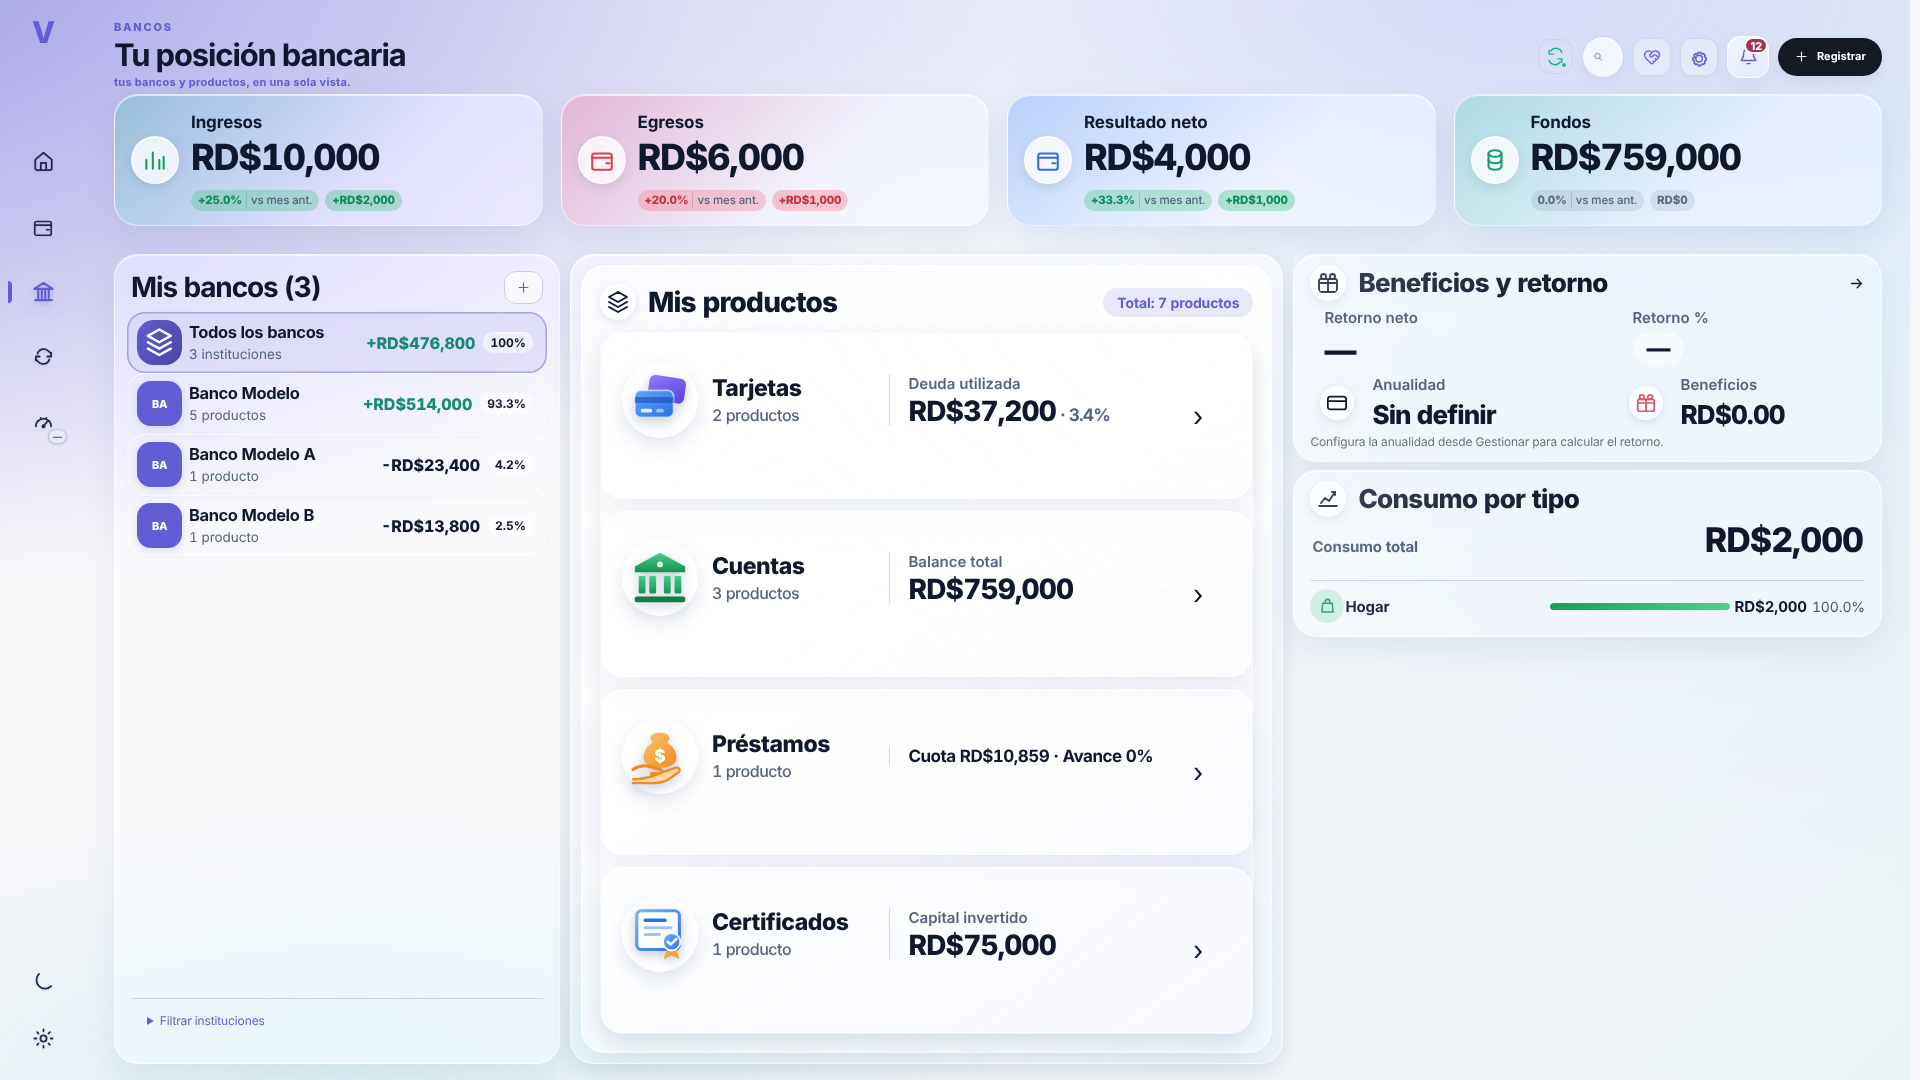
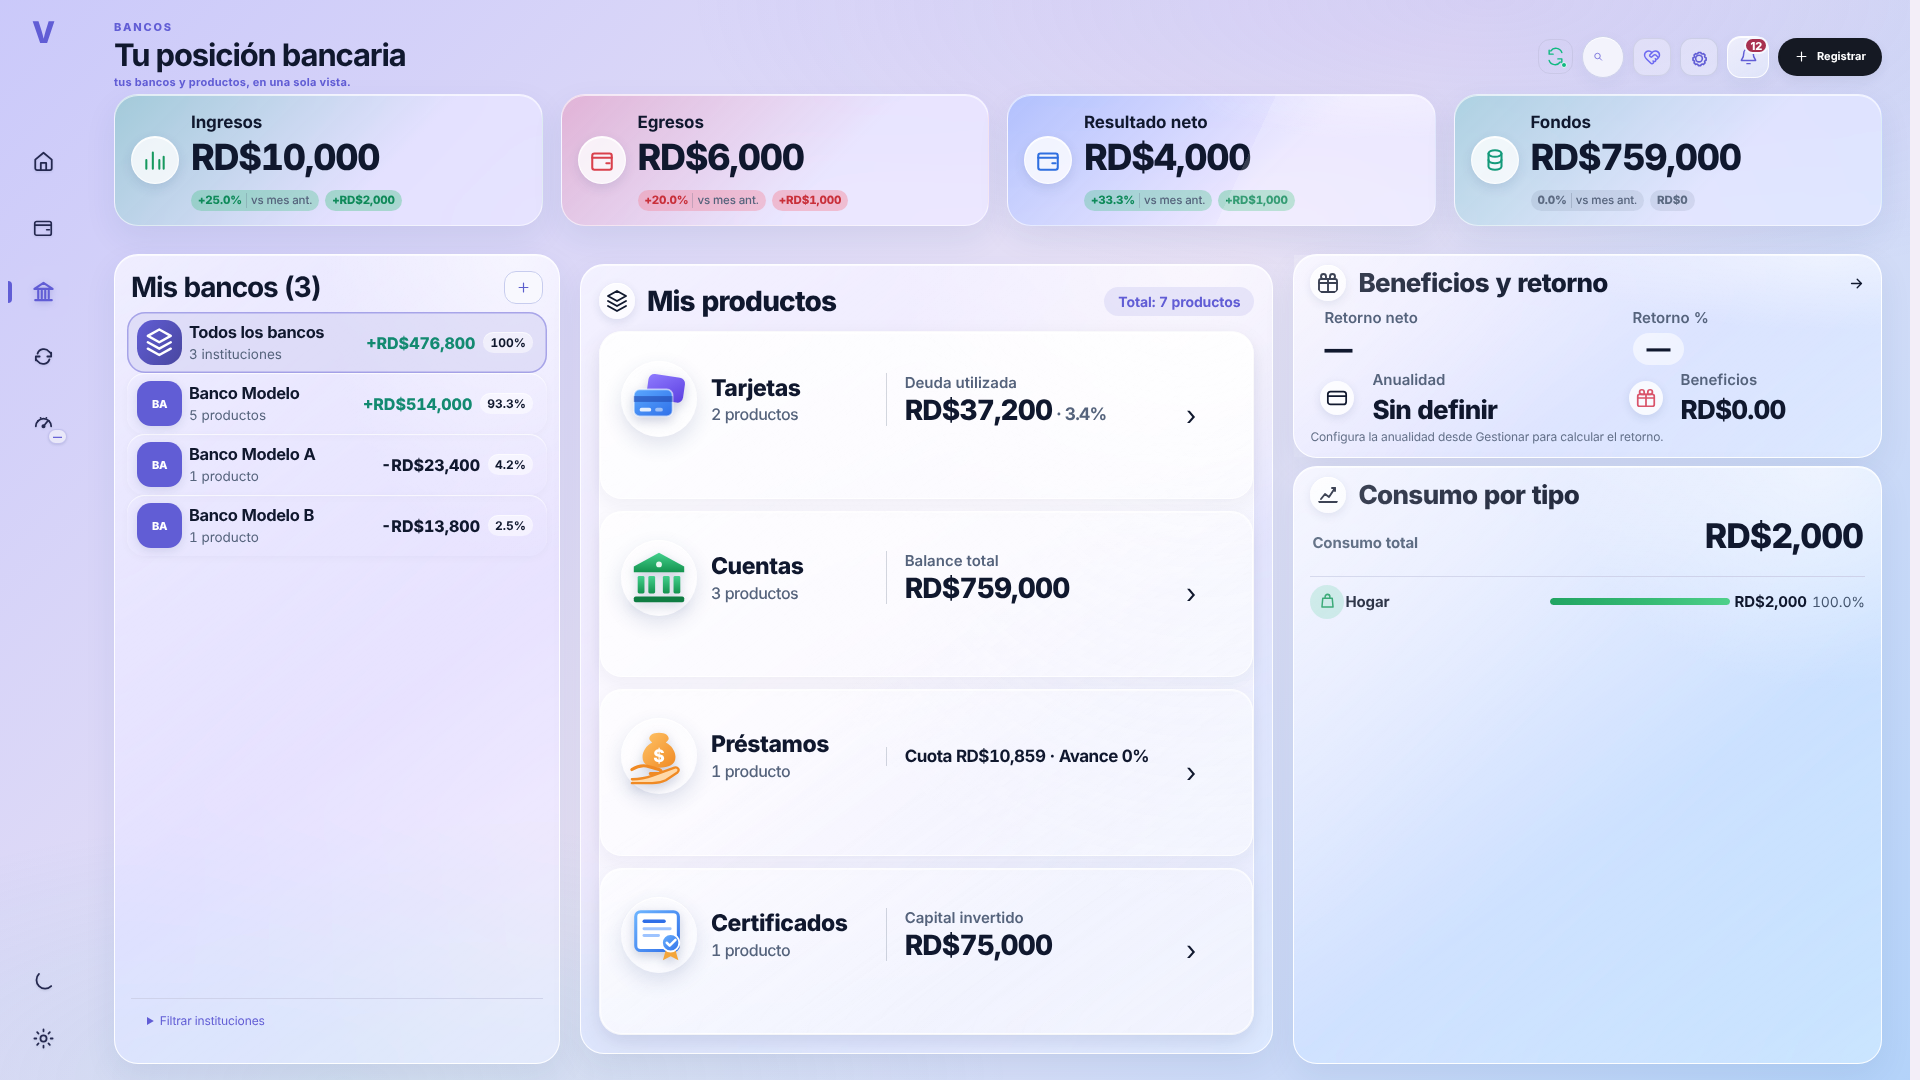
Bancos PC: columna derecha al alto de Mis productos, interior translúcido, totales dentro del contenedor; Patrimonio con cristal cromático del acento
Claude-Session: https://claude.ai/code/session_01AwzF8JXGCqasa7rHAy2PHn

diff --git a/src/bancos-pc-glass.css b/src/bancos-pc-glass.css
@@ -310,3 +310,35 @@
 @media(min-width:791px){
  html body #app#app#app main.vBanksPc-world #page#page .vBanksPc-insights .v371-return-heading{margin-bottom:6px!important}
 }
+/* Columna derecha = mismo alto que «Mis productos»: Consumo por tipo absorbe el espacio y reparte sus filas */
+@media(min-width:1100px){
+ html body #app#app#app main.vBanksPc-world #page#page .vBanksPc-insights{align-self:stretch!important}
+ html body #app#app#app main.vBanksPc-world #page#page .vBanksPc-insights>details.v1301-insight,html body #app#app#app main.vBanksPc-world #page#page .vBanksPc-insights>.v1301-insight{flex:1 1 auto!important;display:flex!important;flex-direction:column}
+ html body #app#app#app main.vBanksPc-world #page#page .vBanksPc-insights .v1301-insight .vBanks-consumption-body{flex:1 1 auto!important;display:flex!important;flex-direction:column;justify-content:space-between!important}
+ html body #app#app#app main.vBanksPc-world #page#page .vBanksPc-insights .vBanksPc-consumption-rows{flex:1 1 auto;display:flex;flex-direction:column;justify-content:space-evenly}
+ html body #app#app#app main.vBanksPc-world #page#page .vBanksPc-insights .vBanksPc-consumption-rows>div{flex:1 1 0;min-height:34px!important}
+}
+/* Retorno neto: la cifra nunca se parte del signo */
+html body #app#app#app main.vBanksPc-world #page#page .vBanksPc-insights .v371-return-tile strong{white-space:nowrap!important;overflow-wrap:normal!important;word-break:keep-all;letter-spacing:-.03em}
+html body #app#app#app main.vBanksPc-world #page#page .vBanksPc-insights .v371-return-tile:nth-child(3) strong{font-size:clamp(20px,1.55vw,28px)!important}
+/* Flecha de producto sin pisar el porcentaje */
+html body #app#app#app main.vBanksPc-world #page#page .vBanksPc-mockup .vBanksPc-overview-tile{padding-right:56px!important}
+html body #app#app#app main.vBanksPc-world #page#page .vBanksPc-mockup .vBanksPc-overview-tile>svg{right:20px!important}
+/* Producto seleccionado: todo dentro del contenedor, interior translúcido coherente con el marco exterior */
+@media(min-width:791px){
+ html body #app#app#app main.vBanksPc-world #page#page .vBanksPc-center{background:none!important;border:0!important;box-shadow:none!important;-webkit-backdrop-filter:none!important;backdrop-filter:none!important}
+ html body #app#app#app main.vBanksPc-world #page#page .vBanksPc-mockup .vBanksPc-overview-tile,
+ html body #app#app#app main.vBanksPc-world #page#page .vBanksPc-mp-detail .vBanksPc-product,
+ html body #app#app#app main.vBanksPc-world #page#page .vBanksPc-totals-strip>div{background:rgba(255,255,255,.26)!important;background-image:linear-gradient(145deg,rgba(255,255,255,.5),rgba(255,255,255,.08) 60%,rgba(255,255,255,.2))!important;border:1px solid rgba(255,255,255,.75)!important;box-shadow:inset 0 1px 1px rgba(255,255,255,.7),0 6px 18px rgba(30,40,80,.05)!important}
+ body.theme-black #app#app#app main.vBanksPc-world #page#page .vBanksPc-mockup .vBanksPc-overview-tile,body.theme-black #app#app#app main.vBanksPc-world #page#page .vBanksPc-mp-detail .vBanksPc-product,body.theme-black #app#app#app main.vBanksPc-world #page#page .vBanksPc-totals-strip>div{background:rgba(255,255,255,.06)!important;background-image:none!important;border-color:rgba(255,255,255,.14)!important}
+ html body #app#app#app main.vBanksPc-world #page#page .vBanksPc-mp-detail .vBanksPc-product-filter{background:rgba(255,255,255,.2)!important;padding:4px!important;gap:4px!important}
+ html body #app#app#app main.vBanksPc-world #page#page .vBanksPc-mp-detail .vBanksPc-product-filter button{padding:4px 2px!important;font-size:clamp(13px,.95vw,15px)!important}
+ html body #app#app#app main.vBanksPc-world #page#page .vBanksPc-mp-detail .vBanksPc-product-filter button svg{width:34px!important;height:34px!important}
+ html body #app#app#app main.vBanksPc-world #page#page .vBanksPc-mp-detail .vBanksPc-lane .vBanksPc-product{padding:6px 14px!important;margin-bottom:6px;min-height:0!important}
+ html body #app#app#app main.vBanksPc-world #page#page .vBanksPc-mp-detail .vBanksPc-product-mark{width:42px;height:42px}
+ html body #app#app#app main.vBanksPc-world #page#page .vBanksPc-mp-detail .vBanksPc-lane>header{padding:6px 8px!important}
+ html body #app#app#app main.vBanksPc-world #page#page .vBanksPc-mp-detail .vBanksPc-totals-strip{flex:0 0 auto;margin-top:6px}
+ html body #app#app#app main.vBanksPc-world #page#page .vBanksPc-mp-detail .vBanksPc-totals-strip>div{padding:8px 16px}
+ html body #app#app#app main.vBanksPc-world #page#page .vBanksPc-mp-detail .vBanksPc-lanes{flex:1 1 auto;min-height:0;overflow-y:auto;scrollbar-width:thin}
+}
+@media(min-height:761px){html body #app#app#app main.vBanksPc-world #page#page .vBanksPc-mp-detail .vBanksPc-lanes{flex:1 1 0!important;flex-shrink:1!important;min-height:200px!important}}

diff --git a/src/liquid-material.css b/src/liquid-material.css
@@ -121,3 +121,10 @@ html body #app#app :is(.vBanks-kpi,.vBanks-mobile-hero){position:relative}
 html body[data-vive-bg][data-vive-bg][data-vive-bg]:not(.theme-black):not(.theme-dark):not(.x){background:var(--ui-ambient) fixed!important;background-color:#f3eef8!important}
 html body.theme-black[data-vive-bg][data-vive-bg][data-vive-bg],html body.theme-dark[data-vive-bg][data-vive-bg][data-vive-bg]{background:var(--ui-ambient) fixed!important;background-color:#000!important}
 body.theme-black #app#app #page .ff-health-card::after,body.theme-dark #app#app #page .ff-health-card::after{background:linear-gradient(115deg,transparent 0 55%,rgba(255,255,255,.05) 55% 100%),radial-gradient(ellipse 75% 55% at 88% 0%,rgba(255,255,255,.12),transparent 62%)}
+/* Patrimonio: héroe en cristal cromático del acento (antes azul fijo) y variación legible */
+html body #app#app#app #page#page .analytic-hero.vPatrimony-vision{
+ background:radial-gradient(ellipse 80% 70% at 90% 0%,color-mix(in srgb,var(--lg-accent) 45%,#fff 40%),transparent 62%),linear-gradient(135deg,color-mix(in srgb,var(--lg-accent) 88%,#fff 4%),var(--lg-accent-deep))!important;
+ border:1px solid rgba(255,255,255,.45)!important;box-shadow:inset 0 1px 1px rgba(255,255,255,.55),0 16px 36px color-mix(in srgb,var(--lg-accent) 30%,transparent)!important}
+html body #app#app#app #page#page .vPatrimony-vision .v134-change{background:rgba(255,255,255,.92)!important;font-weight:800}
+html body #app#app#app #page#page .vPatrimony-vision .v134-change-up{color:#0a6f5f!important;-webkit-text-fill-color:#0a6f5f!important}
+html body #app#app#app #page#page .vPatrimony-vision .v134-change-down{color:#b3283c!important;-webkit-text-fill-color:#b3283c!important}

diff --git a/index.html b/index.html
@@ -31,7 +31,7 @@
 <link rel="stylesheet" href="./src/vive-score/host.css?v=8"/>
 <link rel="stylesheet" href="./src/dynamic-appearance.css?v=10"/>
 <link rel="stylesheet" href="./src/desktop-legibility.css?v=18"/>
-<link rel="stylesheet" href="./src/bancos-pc-glass.css?v=28" media="(min-width: 791px)"/>
+<link rel="stylesheet" href="./src/bancos-pc-glass.css?v=34" media="(min-width: 791px)"/>
 <link rel="stylesheet" href="./src/banks-mobile-legibility.css?v=3" media="(max-width: 790px)"/>
 <link rel="stylesheet" href="./src/banks-mobile-glass.css?v=6" media="(max-width: 790px)"/>
 <link rel="stylesheet" href="./src/wallet-glass.css?v=7"/>
@@ -40,7 +40,7 @@
 <link rel="stylesheet" href="./src/wallet-mobile-top.css?v=9" media="(max-width: 790px)"/>
 <link rel="stylesheet" href="./src/movimientos-desktop.css?v=4" media="(min-width: 791px)"/>
 <link rel="stylesheet" href="./src/wallet-cut-consumption.css?v=1"/>
-<link rel="stylesheet" href="./src/liquid-material.css?v=9"/>
+<link rel="stylesheet" href="./src/liquid-material.css?v=10"/>
 <script src="./src/vive-score/flag.js?v=1"></script>
 </head>
 <body>

diff --git a/tests/bancos-patrimonio.js b/tests/bancos-patrimonio.js
@@ -445,7 +445,7 @@ async function testDesktopDashboardScroll(browser){
   await rows.last().scrollIntoViewIfNeeded();
   const scrolled=await geometry();
   assert.equal(scrolled.overflow,'visible');
-  assert.ok(scrolled.scrollTop>0&&scrolled.last<=scrolled.innerHeight,'La última categoría se alcanza con el scroll general.');
+  assert.ok(scrolled.last<=scrolled.innerHeight,'La última categoría es alcanzable (visible o con scroll general).');
  }finally{await ctx.close();}
 }
 
